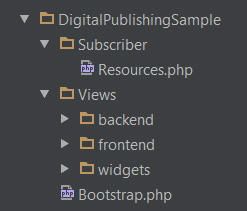
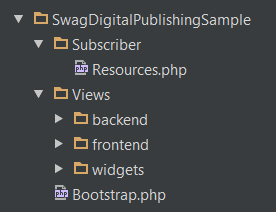
Fixed guide for custom digital publishing elements

diff --git a/exampleplugins/Backend/SwagDigitalPublishingSample/Bootstrap.php b/exampleplugins/Backend/SwagDigitalPublishingSample/Bootstrap.php
@@ -11,7 +11,7 @@ class Shopware_Plugins_Backend_SwagDigitalPublishingSample_Bootstrap extends Sho
 
     public function getLabel()
     {
-        return 'Swag Digital Publishing Sample';
+        return 'Digital Publishing Sample';
     }
 
     public function install()
@@ -23,6 +23,11 @@ class Shopware_Plugins_Backend_SwagDigitalPublishingSample_Bootstrap extends Sho
 
     public function uninstall() {
         return true;
+    }
+
+    public function enable()
+    {
+        return array('success' => true, 'invalidateCache' => array('frontend', 'backend', 'theme'));
     }
 
     public function registerSubscriber()

diff --git a/exampleplugins/Backend/SwagDigitalPublishingSample/Subscriber/Resources.php b/exampleplugins/Backend/SwagDigitalPublishingSample/Subscriber/Resources.php
@@ -13,7 +13,7 @@ use Doctrine\Common\Collections\ArrayCollection;
 class Resources implements SubscriberInterface
 {
     /**
-     * @var \Shopware_Plugins_Backend_DigitalPublishingSample_Bootstrap
+     * @var \Shopware_Plugins_Backend_SwagDigitalPublishingSample_Bootstrap
      */
     protected $bootstrap;
 

diff --git a/source/developers-guide/digital-publishing-elements/index.md b/source/developers-guide/digital-publishing-elements/index.md
@@ -1,7 +1,7 @@
 ---
 layout: default
 title: Digital Publishing Elements
-github_link: developers-guide/digital-publishing-components/index.md
+github_link: developers-guide/digital-publishing-elements/index.md
 shopware_version: 5.1.0
 indexed: true
 tags:
@@ -108,8 +108,8 @@ class Resources implements SubscriberInterface
         $view = $subject->View();
 
         $view->addTemplateDir($this->bootstrap->Path() . 'Views/');
-        $view->extendsTemplate('backend/digital_publishing_sample/view/editor/extension.js');
-        $view->extendsTemplate('backend/digital_publishing_sample/view/editor/elements/youtube_element_handler.js');
+        $view->extendsTemplate('backend/swag_digital_publishing_sample/view/editor/extension.js');
+        $view->extendsTemplate('backend/swag_digital_publishing_sample/view/editor/elements/youtube_element_handler.js');
     }
 
     public function onPostDispatchFrontend(\Enlight_Event_EventArgs $args)
@@ -137,11 +137,11 @@ In the `getSubscribedEvents()` method we return all necessary events we want to 
 
 <img src="img/file_structure_backend.jpg" style="float:right; margin: 10px 0 20px 40px;" />
 
-In the next step, we will look at the first event, which subscribes to the post dispatch of the backend. With it, we can extend the backend with our ExtJS template files in the `onPostDispatchBackend` callback. To add a new element to the Digital Publishing module, we have to extend the original `container.js` of the editor with our own `extension.js` file. All files should go in the `Views` directory of our plugin, in `backend/digital_publishing_sample/view/editor`. We also create the custom handler for our element in the `elements` subdirectory called `youtube\_element\_handler.js`. These files are added to the backend template by the `extendsTemplate()` method.
+In the next step, we will look at the first event, which subscribes to the post dispatch of the backend. With it, we can extend the backend with our ExtJS template files in the `onPostDispatchBackend` callback. To add a new element to the Digital Publishing module, we have to extend the original `container.js` of the editor with our own `extension.js` file. All files should go in the `Views` directory of our plugin, in `backend/swag_digital_publishing_sample/view/editor`. We also create the custom handler for our element in the `elements` subdirectory called `youtube_element_handler.js`. These files are added to the backend template by the `extendsTemplate()` method.
 
 ## Creating the backend handler
 
-Now that we extended the backend template and created the necessary ExtJS files, we can write some code. Let's start with the custom handler for our element: `Views/backend/digital_publishing_sample/view/editor/elements/youtube_element_handler.js`
+Now that we extended the backend template and created the necessary ExtJS files, we can write some code. Let's start with the custom handler for our element: `Views/backend/swag_digital_publishing_sample/view/editor/elements/youtube_element_handler.js`
 
 ```
 //{block name="backend/swag_digital_publishing/view/editor/abstract_element_handler" append}
@@ -167,7 +167,7 @@ To extend the backend template, we're editing the Smarty `{block}` of the abstra
 - `iconCls`: the CSS class for the element icon
 - `createFormItems()`: the method which returns the configuration fields for this element
 
-Now that we have created the handler, we have to add it to the list of available element handlers. Therefore, we created the `extension.js` to extend the original editor: `Views/backend/digital_publishing_sample/view/editor/extension.js`
+Now that we have created the handler, we have to add it to the list of available element handlers. Therefore, we created the `extension.js` to extend the original editor: `Views/backend/swag_digital_publishing_sample/view/editor/extension.js`
 
 ```
 //{block name="backend/swag_digital_publishing/view/editor/container" append}
